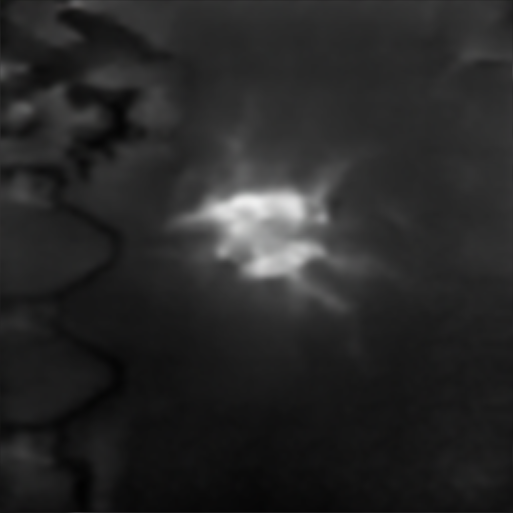
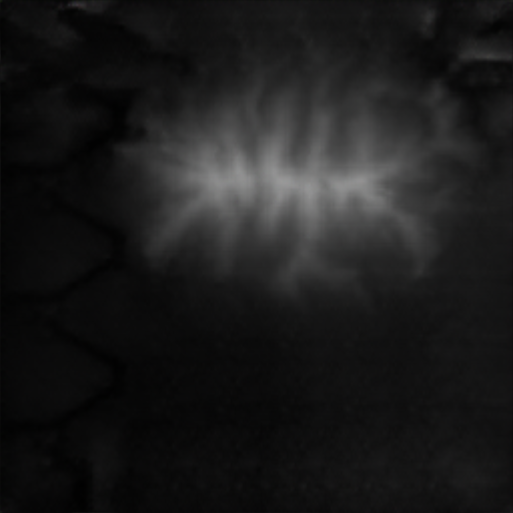
delete the blur script

diff --git a/TerrainVR/Assets/Script/Stroke.cs b/TerrainVR/Assets/Script/Stroke.cs
@@ -134,6 +134,8 @@ public class Stroke : MonoBehaviour
     {
         if (terrain == null) return;
 
+        if (leftIndex < 0 && rightIndex < 0) return;
+
         slopeVisualCue.GetComponent<LineRenderer>().SetPosition(1, positions[slopeIndex]);
 
         Vector3 derivative;
@@ -166,10 +168,9 @@ public class Stroke : MonoBehaviour
                 rightBrushSize = d.magnitude / (positions[slopeIndex].y - leftPosition.y);
                 rightBrushSize = Mathf.Clamp(rightBrushSize, 0.2f, 5f);
             }
-
-            return;
         }
-        else if (rightIndex <= -100)
+
+        if (rightIndex <= -100)
         {
             if (rightIndex == -100)
             {
@@ -188,8 +189,6 @@ public class Stroke : MonoBehaviour
 
             return;
         }
-
-        if (leftIndex < 0 && rightIndex < 0) return;
 
         if (rightIndex < 0)
         {

diff --git a/TerrainVR/Assets/ProceduralTerrainGenerator/Script/TerrainModifier.cs b/TerrainVR/Assets/ProceduralTerrainGenerator/Script/TerrainModifier.cs
@@ -149,13 +149,6 @@ public class TerrainModifier : MonoBehaviour
 
     Texture2D RestoreHeightmap(Texture2D tex)
     {
-        ParallelGaussianBlur blur = gameObject.AddComponent<ParallelGaussianBlur>();
-        blur.Radial = 1;
-
-        blur.GaussianBlur(ref tex);
-        blur.GaussianBlur(ref tex);
-        DestroyImmediate(blur);
-
         tex.Apply();
         RenderTexture rt = RenderTexture.GetTemporary(terrainData.heightmapResolution, terrainData.heightmapResolution, 0, RenderTextureFormat.ARGB32, RenderTextureReadWrite.Default);
         RenderTexture.active = rt;
